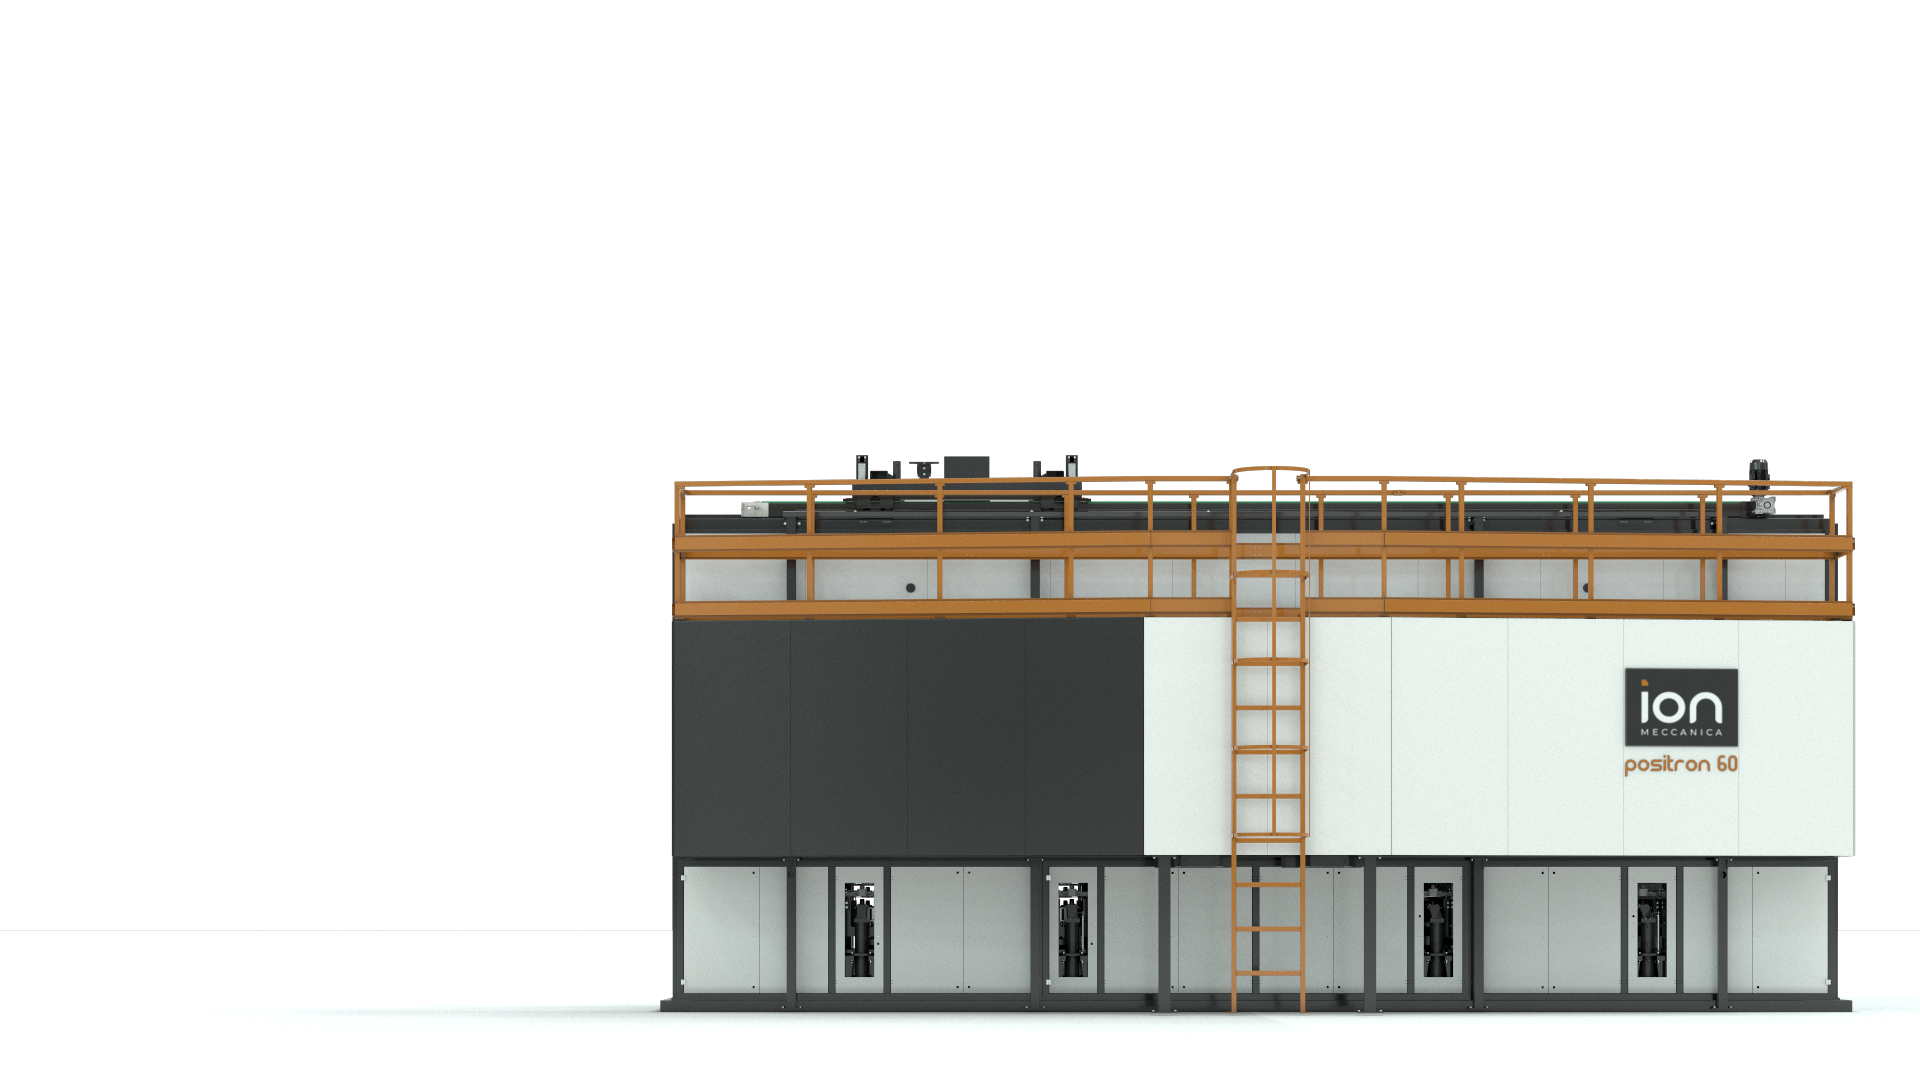
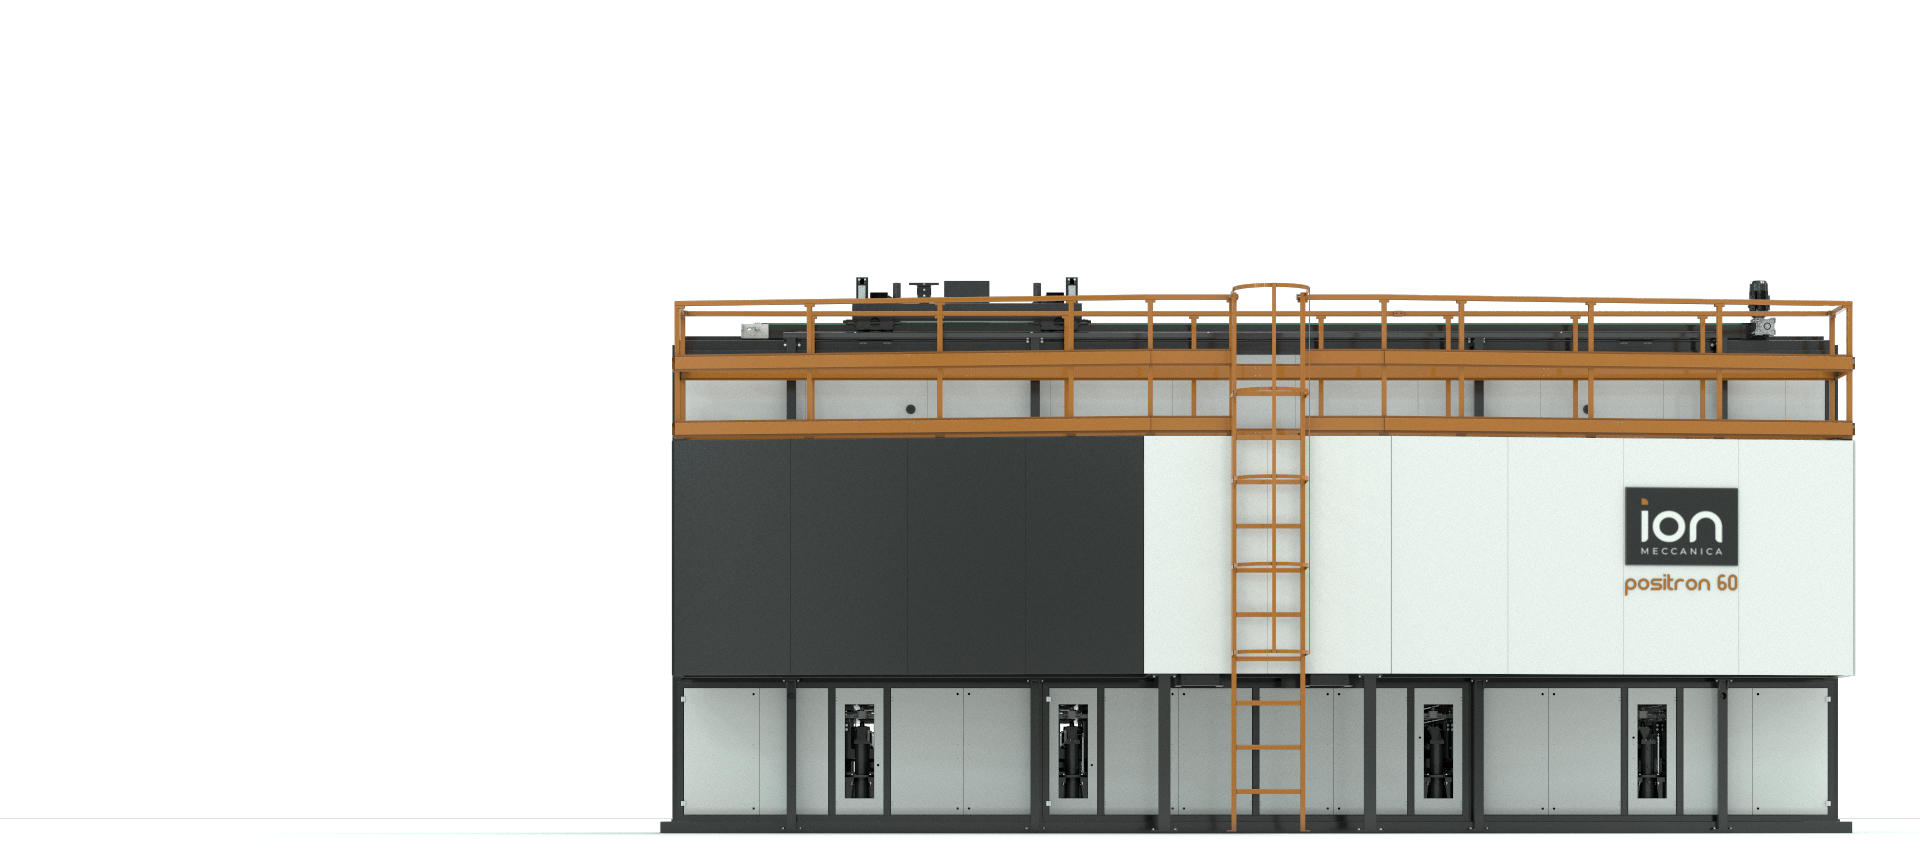
HERO bölümünde arka plan görseli güncellemesi ve stil iyileştirmeleri

Changed region(s): [[0.25, 0.3114, 0.9688, 0.9654]]

diff --git a/app/(site)/products/[slug]/page.tsx b/app/(site)/products/[slug]/page.tsx
@@ -164,7 +164,10 @@ export default function ProductDetailPage() {
     <div className="w-full min-h-screen bg-white relative font-montserrat text-[#3A3A3A] overflow-x-hidden">
  
       {/* 1. BÖLÜM: HERO & GENEL BAKIŞ */}
-      <section className="w-full min-h-screen relative flex flex-col justify-between px-6 lg:pl-16 lg:pr-16 pt-28 lg:pt-32 pb-0 bg-[#3A3A3A]">
+      <section 
+        className="w-full min-h-screen relative flex flex-col justify-start px-6 lg:pl-16 lg:pr-16 pt-28 lg:pt-32 pb-20 bg-[#3A3A3A] bg-no-repeat bg-bottom bg-[length:100%_auto] lg:bg-[length:85%_auto]"
+        style={{ backgroundImage: "url('/Positron_2.png')" }}
+      >
  
         {/* Üst Kısım: Anasayfa / Ürünler / Positron */}
         <div className="w-full lg:ml-[-30px] mx-auto relative z-10 -mt-6">
@@ -177,8 +180,8 @@ export default function ProductDetailPage() {
           </div>
         </div>
 
-        {/* Orta Metin Alanı */}
-        <div className="w-full max-w-5xl mx-auto relative z-10 mt-4 pl-0 lg:pl-12">
+        {/* Alt Kısım */}
+        <div className="w-full max-w-5xl mx-auto relative z-10 mt-8 pl-0 lg:pl-12">
           <div className="max-w-3xl flex flex-col items-start gap-6">
             <div>
               <h1 className="text-4xl md:text-[48px] font-extrabold tracking-tight text-white mb-2">POSITRON</h1>
@@ -199,19 +202,6 @@ export default function ProductDetailPage() {
               <Download size={18} className="text-[#B87332]" />
               <span>{isTr ? "Katalog İndir" : "Download the catalogue"}</span>
             </a>
-          </div>
-        </div>
-
-        {/* En Alt Kısım: Görsel (Basılmadan, Orijinal Oranıyla Oturur) */}
-        <div className="w-full max-w-5xl mx-auto relative z-10 mt-12 flex justify-center">
-          <div className="relative w-full max-w-[1100px] aspect-[16/7]">
-            <Image
-              src="/Positron_2.png"
-              alt="Positron Cyclic Oven"
-              fill
-              className="object-contain object-bottom"
-              priority
-            />
           </div>
         </div>
       </section>
